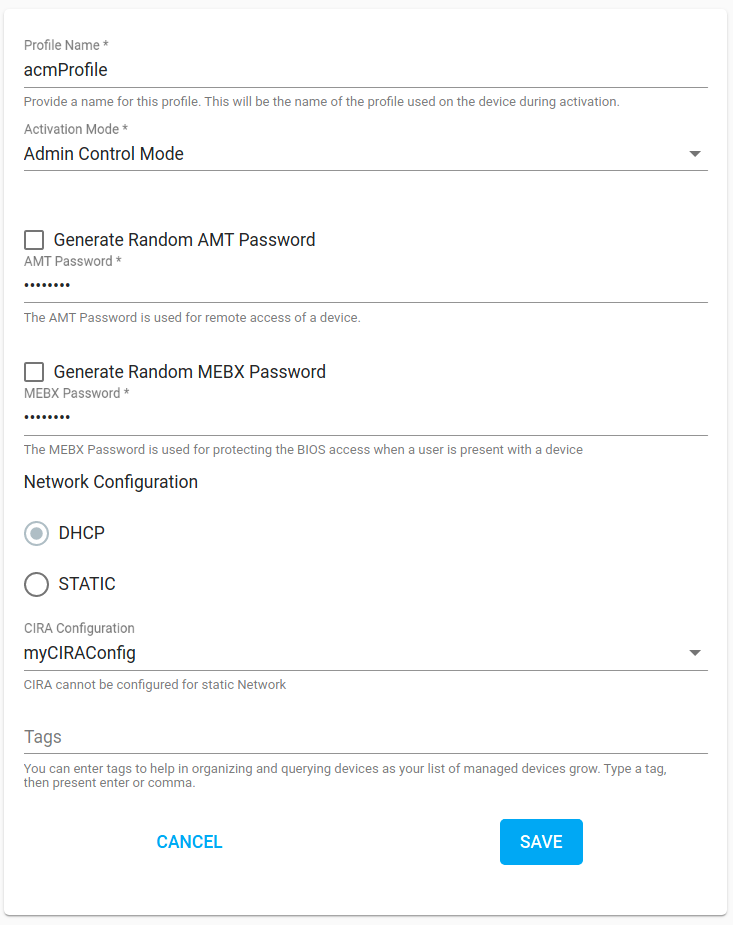
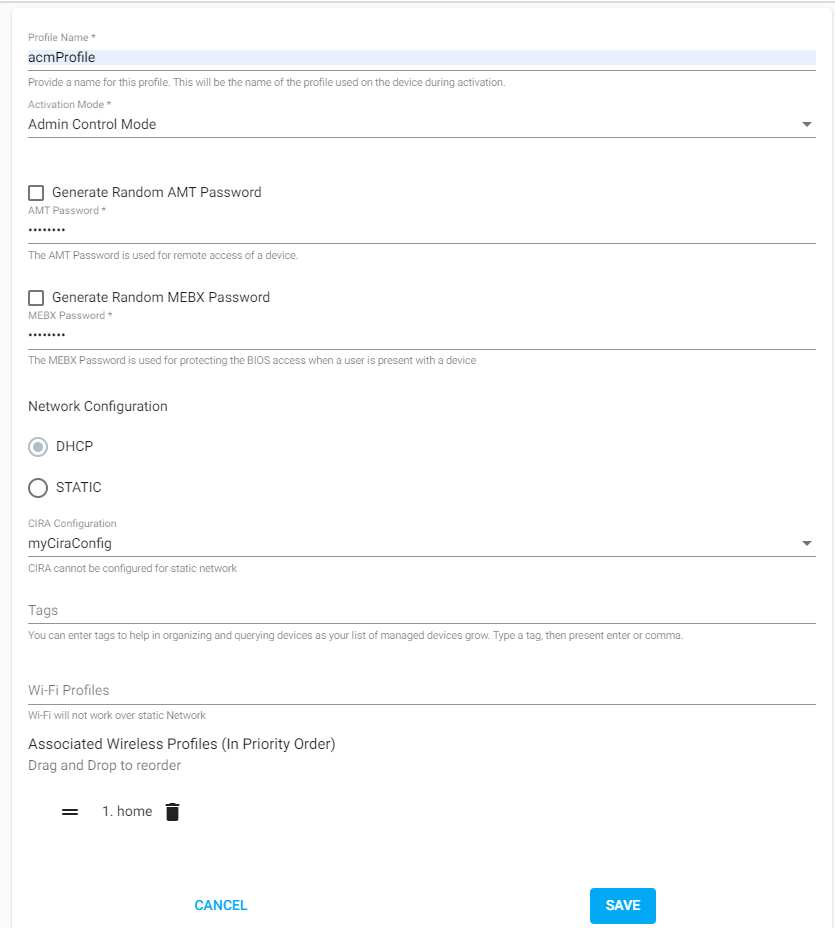
feat(wireless): add WiFi config creation document (#112)
* feat(wireless): add WiFi config creation document

* fix(wireless): incorporate DXA3 feedback to add buttons under explanations

diff --git a/docs/General/createWiFiConfig.md b/docs/General/createWiFiConfig.md
@@ -1,0 +1,38 @@
+--8<-- "References/abbreviations.md"
+
+**To create a WiFi Config:**
+
+1. Select the **Wireless** tab from the left-hand menu.
+
+2. In the top-right corner, click **Add New.**
+    [![RPS](../assets/images/RPS_NewWireless.png)](../assets/images/RPS_NewWireless.png)
+    **Figure 1: Create a new WiFi Config.**
+
+3. Specify a **Profile Name** of your choice.
+
+4. Under **Authentication Method**, select **WPA PSK** or **WPA2 PSK**.
+
+5. Under **Encryption Method**, select **TKIP** or **CCMP** 
+
+6. Specify a **SSID** or in common terms, name of your wireless network.
+
+7. Provide a strong **PSK Passphrase**. This passphrase is the password to the WiFi Network.
+
+8. Click **Save.**
+    
+    !!! example
+        Example WiFi Config:
+        [![RPS](../assets/images/RPS_WirelessCreate.png)](../assets/images/RPS_WirelessCreate.png)
+        **Figure 2: Example WiFi Config.** 
+
+## Next up
+
+Profiles provide configuration information to the AMT Firmware during the activation process with the Remote Provisioning Client (RPC). Profiles also distinguish between activating in: 
+
+**[Client Control Mode (CCM):](createProfileCCM.md)** This mode offers nearly all manageability features including, but not limited to, power control, audit logs, and hardware info. **While Intel® AMT includes redirection features such as KVM while using user consent in CCM, the Open AMT Cloud Toolkit does not currently support doing so.**
+
+[Create a CCM Profile](createProfileCCM.md){: .md-button .md-button--primary }
+
+**[Admin Control Mode (ACM):](createProfileACM.md)** ACM mode supports all manageability features **without requiring user consent**. This means it is **not necessary** to have a person on-site to remote in and manage an edge device. In most IoT use cases, edge devices such as digital signage or kiosks may not be easily accessible or have available employees nearby. ACM mode proves immensely helpful in these scenarios.
+
+[Create an ACM Profile](createProfileACM.md){: .md-button .md-button--primary }

diff --git a/docs/General/createProfileCCM.md b/docs/General/createProfileCCM.md
@@ -51,9 +51,11 @@ Profiles provide configuration information to the firmware on platforms featurin
 
 9. Select the name of the **CIRA Configuration** you created previously from the drop-down menu.
 
-10. Optionally, add **Tags** to help in organizing and querying devices as your list of managed devices grow.
+10. Search and select the **WiFi Config** from the list of WiFi Configs created previously. The selected Wifi Configs will be shown under **Associated Wireless Profiles** and can be re-ordered by dragging them.
 
-11. Click **Save.**
+11. Optionally, add **Tags** to help in organizing and querying devices as your list of managed devices grow.
+
+12. Click **Save.**
 
     !!! example "Example CCM Profile"
         

diff --git a/docs/General/createProfileACM.md b/docs/General/createProfileACM.md
@@ -92,9 +92,11 @@ A Profile provides configuration information to the AMT Firmware during the acti
 
 10. Select the name of the **CIRA Configuration** you created previously from the drop-down menu.
 
-11. Optionally, add **Tags** to help in organizing and querying devices as your list of managed devices grow.
+11. Search and select the **WiFi Config** from the list of WiFi Configs created previously. The selected Wifi Configs will be shown under **Associated Wireless Profiles** and can be re-ordered by dragging them.
 
-12. Click **Save.**
+12. Optionally, add **Tags** to help in organizing and querying devices as your list of managed devices grow.
+
+13. Click **Save.**
 
 !!! example "Example ACM Profile"
     
